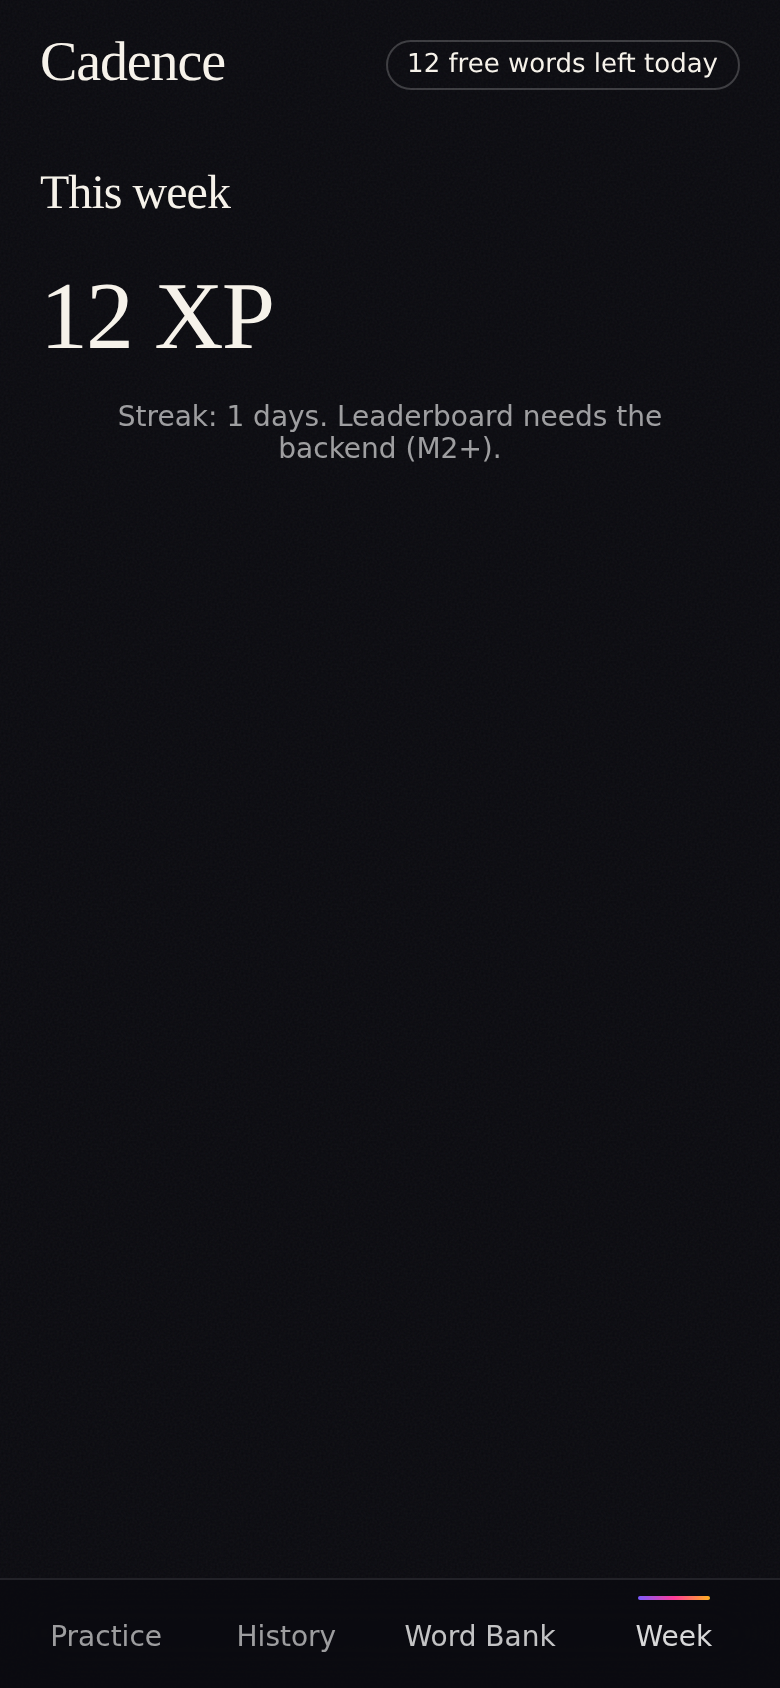
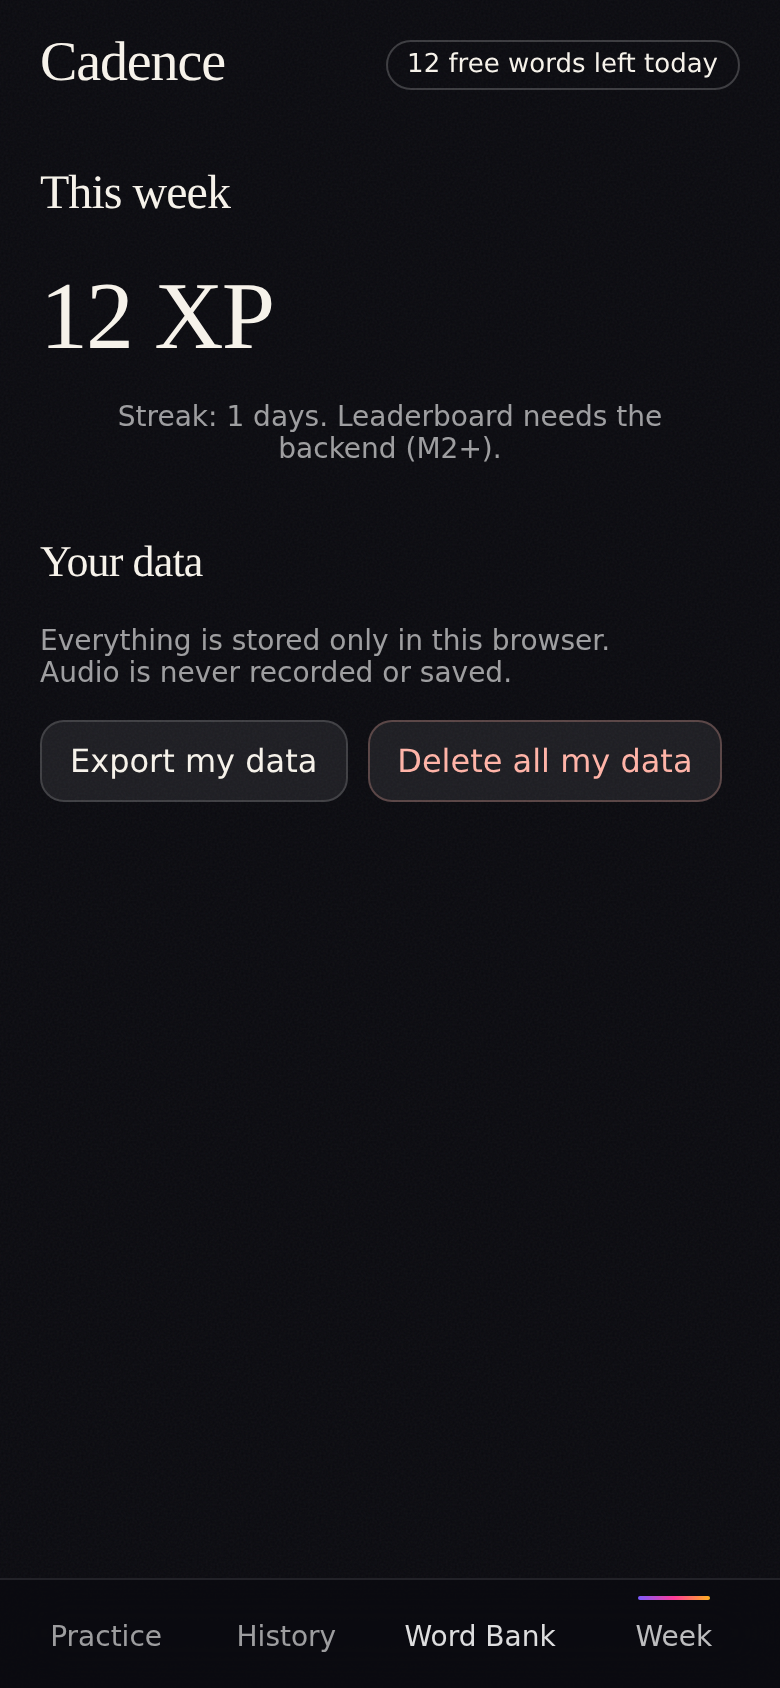
M6: web data export/delete controls (tested), draft privacy policy and terms
Claude-Session: https://claude.ai/code/session_01MuqVCLN2XMNWt7TsmzrLGX

diff --git a/web/app.js b/web/app.js
@@ -126,5 +126,26 @@ function render() {
   if (!days.has(localDay(d))) d.setDate(d.getDate() - 1);
   while (days.has(localDay(d))) { s++; d.setDate(d.getDate() - 1); } $("streak").textContent = s;
 }
+// ---- data controls (export / delete)
+const DATA_KEYS = ["history", "bank", "usage", "xp"];
+$("export").onclick = () => {
+  const out = Object.fromEntries(DATA_KEYS.map((k) => [k, state[k]]));
+  const url = URL.createObjectURL(new Blob([JSON.stringify({ exportedAt: new Date().toISOString(), ...out }, null, 2)], { type: "application/json" }));
+  Object.assign(document.createElement("a"), { href: url, download: "cadence-data.json" }).click();
+  URL.revokeObjectURL(url); $("datamsg").textContent = "Exported cadence-data.json.";
+};
+let wipeArmed = null;
+$("wipe").onclick = () => {
+  const b = $("wipe");
+  if (!wipeArmed) {
+    b.textContent = "Tap again to confirm"; $("datamsg").textContent = "This removes your history, Word Bank, XP and daily usage from this browser.";
+    wipeArmed = setTimeout(() => { wipeArmed = null; b.textContent = "Delete all my data"; $("datamsg").textContent = ""; }, 5000); return;
+  }
+  clearTimeout(wipeArmed); wipeArmed = null;
+  try { DATA_KEYS.forEach((k) => localStorage.removeItem("cadence." + k)); } catch {}
+  state.history = []; state.bank = {}; state.usage = {}; state.xp = {};
+  b.textContent = "Delete all my data"; $("datamsg").textContent = "All data deleted."; render();
+};
+
 pick(); markCat(); render();
 window.__cadence = { submit, state }; // for tests/screenshots

diff --git a/web/index.html b/web/index.html
@@ -34,7 +34,11 @@
   </section>
   <section id="history" class="tab"><h2>History</h2><canvas id="chart" width="600" height="200"></canvas><ul id="hlist" class="list"></ul></section>
   <section id="bank" class="tab"><h2>Word Bank</h2><ul id="blist" class="list"></ul></section>
-  <section id="league" class="tab"><h2>This week</h2><p class="big" id="xp">0 XP</p><p class="muted">Streak: <span id="streak">0</span> days. Leaderboard needs the backend (M2+).</p></section>
+  <section id="league" class="tab"><h2>This week</h2><p class="big" id="xp">0 XP</p><p class="muted">Streak: <span id="streak">0</span> days. Leaderboard needs the backend (M2+).</p>
+    <h2 class="sub">Your data</h2>
+    <p class="muted left">Everything is stored only in this browser. Audio is never recorded or saved.</p>
+    <div class="row left"><button id="export">Export my data</button><button id="wipe" class="danger">Delete all my data</button></div>
+    <p id="datamsg" class="muted left" aria-live="polite"></p></section>
 </main>
 <nav aria-label="Sections">
   <button data-tab="practice" class="on">Practice</button>

diff --git a/web/style.css b/web/style.css
@@ -51,3 +51,6 @@ nav button{position:relative;padding-top:12px}nav button.on::before{content:"";p
 .chip.luminous{background:#FFB0201f;border-color:#FFB02066;color:#FFE2A8}
 .chip.bright{background:#FF3D9A26;border-color:#FF3D9A55}
 nav button{white-space:nowrap;font-size:14px}
+
+.sub{margin-top:36px;font-size:22px}.left{text-align:left;margin-inline:0}.row.left{justify-content:flex-start}
+button.danger{color:#ffb4a8;border-color:#ffb4a844}button.danger:hover{background:#ff6b5a22}

diff --git a/docs/legal-privacy-policy-DRAFT.md b/docs/legal-privacy-policy-DRAFT.md
@@ -1,0 +1,33 @@
+# Cadence Privacy Policy (DRAFT, needs legal review before publishing)
+
+_Last updated: 2026-10-01. This draft describes how the app is designed to work. Have a lawyer review it and host it at a public URL before App Store submission._
+
+## What Cadence does
+Cadence scores how you pronounce English sentences and keeps a history so you can see progress.
+
+## Data we process
+| Data | Why | Where it goes | Kept |
+|---|---|---|---|
+| Voice audio while you hold the speak button | To recognise and score your speech | Processed by Apple's speech recognition (on-device where your device supports it). Azure Speech is planned for phoneme-level scoring and will be named here before it ships. | Audio is not stored by Cadence |
+| Scores, per-word results, practice history, Word Bank, XP | Show your progress, build review lists | Your device; with an account, our database (Supabase) | Until you delete them |
+| Account identifier (Sign in with Apple), display name and country (optional) | Sign-in, optional leaderboard | Our database (Supabase) | Until you delete your account |
+| Subscription status | Unlock premium | RevenueCat and Apple | As required by those services |
+
+We do not sell personal data and do not use it for advertising or tracking.
+
+## Your controls
+- **Export** your data from the app.
+- **Delete** your data or account from the app. Deleting an account removes your records from our database.
+- You can revoke microphone and speech permissions in iOS Settings at any time.
+
+## Processors
+Apple (speech recognition, sign-in, payments), Supabase (hosting and database), RevenueCat (subscriptions). Azure (speech scoring) will be added to this list if and when it is used.
+
+## Children
+Cadence is not directed at children under 13.
+
+## Contact
+TODO: support email address.
+
+## Changes
+We will update the date above when this policy changes.

diff --git a/PROGRESS.md b/PROGRESS.md
@@ -36,6 +36,11 @@
 ## Latest routine run (19:47 UTC)
 - CI for 548bc22: iOS build passed (native tabs/progress views compile); swift-core failed one test (week boundary: Linux `dateInterval(of:.weekOfYear)` ignored `firstWeekday`). Fixed `ProgressLog.weekKey` to compute Monday from the weekday number. The fix did not change the result: the real cause was the test's expected XP (a perfect 1-word read earns 2 XP with the quality bonus; weeks were already separating correctly). Test corrected in the 22:47 run; **re-verify CI next run.** The weekKey rewrite is harmless and kept.
 
+## Latest routine run (01:48 UTC)
+- CI green on a58276c (all three jobs): Swift tests now pass; the earlier week-boundary failure was a wrong test expectation, fixed.
+- M6 slice: web prototype "Your data" controls (export JSON, two-step delete all) verified in headless Chromium (download + wipe flow asserted in `tools/screenshots.mjs`, which Pages CI runs). Draft privacy policy and terms in `docs/legal-*-DRAFT.md`: **need legal review and a support email (marked TODO) before publishing; users must host them at public URLs for App Store Connect.**
+- Next: native export/delete (Settings), local review reminders (UNUserNotificationCenter) for M3, orb as centre tab; sync still waiting on the anon key + migration 2 + function deploy.
+
 ## Supabase session
 - User reports schema applied (unverified from here: Supabase MCP not authenticated in cloud sessions).
 - New migration `20260930000002_word_bank_upsert.sql` (**apply it too**): `upsert_weak_words` keeps word mastery instead of resetting it; SQL-tested.

diff --git a/docs/legal-terms-DRAFT.md b/docs/legal-terms-DRAFT.md
@@ -1,0 +1,12 @@
+# Cadence Terms of Use (DRAFT, needs legal review before publishing)
+
+_Last updated: 2026-10-01._
+
+1. **Service.** Cadence is a pronunciation practice app. Scores are automated estimates, not a certified assessment.
+2. **Free plan.** Up to 20 scored words per day, resetting at local midnight.
+3. **Premium.** $8.99 per month, billed through your Apple ID, auto-renewing until cancelled at least 24 hours before the period ends. Manage or cancel in your Apple ID subscription settings. Restore Purchases is available in the app.
+4. **Acceptable use.** Don't abuse the service, attempt to forge scores or XP, or interfere with other users' leaderboard experience.
+5. **Your content.** Your practice results belong to you. Audio is not stored.
+6. **Termination.** You can delete your account at any time in the app.
+7. **Disclaimer.** The service is provided as is, to the extent permitted by law.
+8. **Contact.** TODO: support email address.
